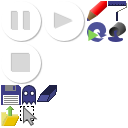
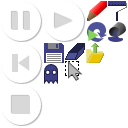
added reset button
#298

Changed region(s): [[0.0, 0.3125, 0.8125, 1.0], [0.0625, 0.4062, 0.25, 0.5625]]

diff --git a/source/com/bombinggames/wurfelengine/MapEditor/EditorToggler.java b/source/com/bombinggames/wurfelengine/MapEditor/EditorToggler.java
@@ -16,7 +16,7 @@ import com.bombinggames.wurfelengine.core.GameView;
 public class EditorToggler {
 
 	private Image pauseButton;
-	private Image stopButton;
+	private Image resetButton;
 	private Image playButton;
 	private final float offsetX = 50;
 	private final float offsetY = 50;
@@ -44,9 +44,9 @@ public class EditorToggler {
 				pauseButton.remove();
 				pauseButton = null;
 			}
-			if (stopButton != null) {
-				stopButton.remove();
-				stopButton = null;
+			if (resetButton != null) {
+				resetButton.remove();
+				resetButton = null;
 			}
 
 			if (playButton == null && controller != null && this.view != null) {
@@ -64,7 +64,7 @@ public class EditorToggler {
 				playButton = null;
 			}
 
-			if (pauseButton == null || stopButton == null) {
+			if (pauseButton == null || resetButton == null) {
 				TextureAtlas spritesheet = WE.getAsset("com/bombinggames/wurfelengine/core/skin/gui.txt");
 
 				if (pauseButton == null) {
@@ -74,34 +74,46 @@ public class EditorToggler {
 					pauseButton.setY(Gdx.graphics.getHeight() - offsetY);
 					pauseButton.addListener(
 						new ClickListener() {
-						@Override
-						public boolean touchDown(InputEvent event, float x, float y, int pointer, int button) {
-							WE.startEditor(false);
-							return true;
+							@Override
+							public boolean touchDown(InputEvent event, float x, float y, int pointer, int button) {
+								WE.startEditor(false);
+								return true;
+							}
 						}
-					}
 					);
 				}
 				view.getStage().addActor(pauseButton);
 
-				if (WE.editorHasMapCopy()) {
-					if (stopButton == null) {
-						//add reverse editor button
-						stopButton = new Image(spritesheet.findRegion("stop_button"));
-						stopButton.setX(Gdx.graphics.getWidth() - offsetX * 2);
-						stopButton.setY(Gdx.graphics.getHeight() - offsetY);
-						stopButton.addListener(
-							new ClickListener() {
+				if (resetButton == null) {
+					//add reverse editor button
+					resetButton = new Image(spritesheet.findRegion("reset_button"));
+					resetButton.setX(Gdx.graphics.getWidth() - offsetX * 2);
+					resetButton.setY(Gdx.graphics.getHeight() - offsetY);
+					resetButton.addListener(
+						new ClickListener() {
 							@Override
 							public boolean touchDown(InputEvent event, float x, float y, int pointer, int button) {
-								WE.startEditor(true);
+								Controller.loadMap(Controller.getMap().getPath(), controller.getSaveSlot());
+								WE.startEditor(false);
 								return true;
 							}
 						}
-						);
-					}
-					view.getStage().addActor(stopButton);
+					);
 				}
+				view.getStage().addActor(resetButton);
+				
+				//stop button
+				//if (WE.editorHasMapCopy()) {
+	//				resetButton.addListener(
+	//							new ClickListener() {
+	//								@Override
+	//								public boolean touchDown(InputEvent event, float x, float y, int pointer, int button) {
+	//									WE.startEditor(true);
+	//									return true;
+	//								}
+	//							}
+	//						);
+				//}
 			}
 		}
 	}
@@ -113,8 +125,8 @@ public class EditorToggler {
 		if (pauseButton != null) {
 			pauseButton.remove();
 		}
-		if (stopButton != null) {
-			stopButton.remove();
+		if (resetButton != null) {
+			resetButton.remove();
 		}
 	}
 

diff --git a/source/com/bombinggames/wurfelengine/WE.java b/source/com/bombinggames/wurfelengine/WE.java
@@ -213,6 +213,11 @@ public class WE {
             Gdx.app.log("Wurfel Engine", "and View:" + view.toString());
             Gdx.app.log("Wurfel Engine", "and Config:" + config.toString());
             
+			getEngineView().getEditorToggler().setGameplayManagers(
+				controller,
+				view
+			);
+			
             if (gameplayScreen != null)
                 gameplayScreen.dispose();//remove gameplayscreen if it already exists
             gameplayScreen = new GameplayScreen(
@@ -222,8 +227,9 @@ public class WE {
             );
             getConsole().setGameplayRef(gameplayScreen);
 			mainMenu.dispose();
-        } else
+        } else {
             Gdx.app.error("Wurfel Engine", "You must construct a WE instance first before calling initGame.");
+		}
     }
     
     /**
@@ -236,6 +242,10 @@ public class WE {
         Gdx.app.debug("Wurfel Engine", "and View:" + view.toString());
 		inGame = true;
 		inEditor = false;
+		getEngineView().getEditorToggler().setGameplayManagers(
+			controller,
+			view
+		);
         engineView.resetInputProcessors();
 		gameplayScreen.getController().exit();
 		gameplayScreen.getView().exit();
@@ -249,17 +259,28 @@ public class WE {
         controller.enter();
         view.enter();
     }
+	
+	public static void switchSetup(final Controller controller, final GameView view){
+		switchSetup(controller, view, false);
+	}
     
     /**
      * Continue to use already initialized controller and view. Enter the editor via {@link #startEditor(boolean)}
      * @param controller the new controller
      * @param view the new view
+	 * @param editor true if this is the editor setup
      */
-    public static void switchSetup(final Controller controller, final GameView view){
+    private static void switchSetup(final Controller controller, final GameView view, boolean editor){
         Gdx.app.debug("Wurfel Engine", "Switching setup using Controller: " + controller.toString());
         Gdx.app.debug("Wurfel Engine", "and View: " + view.toString());
-		inGame = true;//assume that every game manager state is gamemode
-		inEditor = false;
+		inGame = true;
+		inEditor = editor;
+		if (!inEditor){
+			getEngineView().getEditorToggler().setGameplayManagers(
+				controller,
+				view
+			);
+		}
         engineView.resetInputProcessors();
         gameplayScreen.getController().exit();
 		gameplayScreen.getView().exit();
@@ -279,9 +300,7 @@ public class WE {
      */
     public static void startEditor(boolean reverseMap){
         gameplayScreen.getEditorController().setReverseMap(reverseMap);
-        switchSetup(gameplayScreen.getEditorController(), gameplayScreen.getEditorView());
-		inGame = false;//set default true to false
-		inEditor = true;
+        switchSetup(gameplayScreen.getEditorController(), gameplayScreen.getEditorView(), true);
     }
 
 	public static boolean isInEditor() {

diff --git a/source/com/bombinggames/wurfelengine/MapEditor/MapEditorView.java b/source/com/bombinggames/wurfelengine/MapEditor/MapEditorView.java
@@ -152,11 +152,6 @@ public class MapEditorView extends GameView {
 		Gdx.input.setCursorCatched(false);
 		WE.getEngineView().getSoundEngine().setMusicLoudness(0);
 		Controller.getMap().setGameSpeed(0);
-		
-		WE.getEngineView().getEditorToggler().setGameplayManagers(
-			controller.getGameplayController(),
-			controller.getGameplayView()
-		);
     }
     /**
      *
